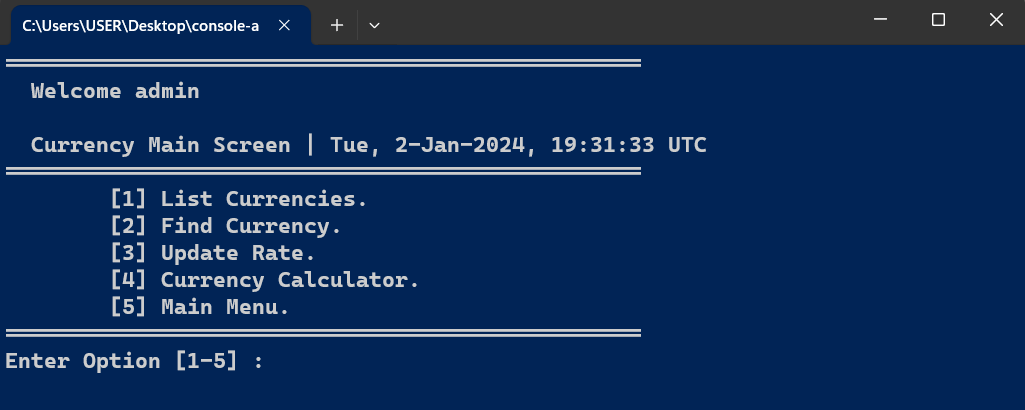
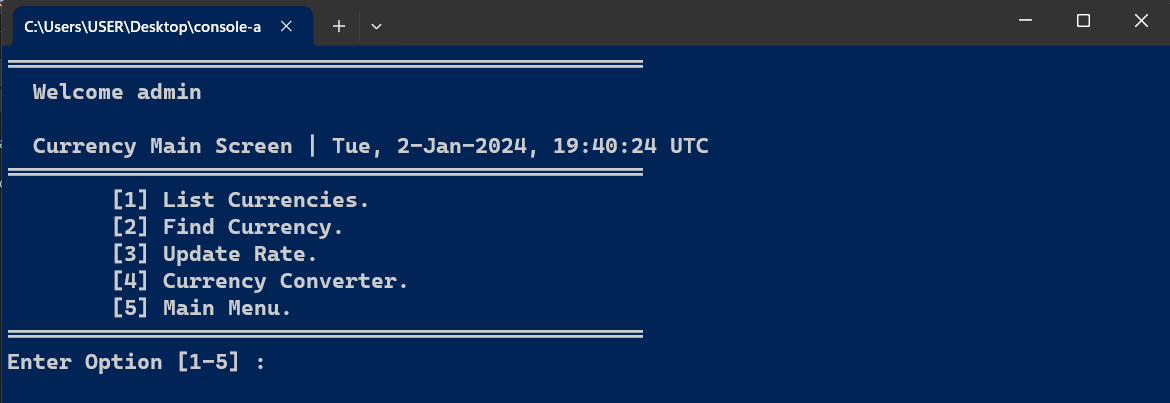
-

diff --git a/clsCurrencyMainScreen.h b/clsCurrencyMainScreen.h
@@ -74,7 +74,7 @@ public:
         cout << "\t[1] List Currencies.\n";
         cout << "\t[2] Find Currency.\n";
         cout << "\t[3] Update Rate.\n";
-        cout << "\t[4] Currency Calculator.\n";
+        cout << "\t[4] Currency Converter.\n";
         cout << "\t[5] Main Menu.\n";
         cout << "=================================================\n";
 
